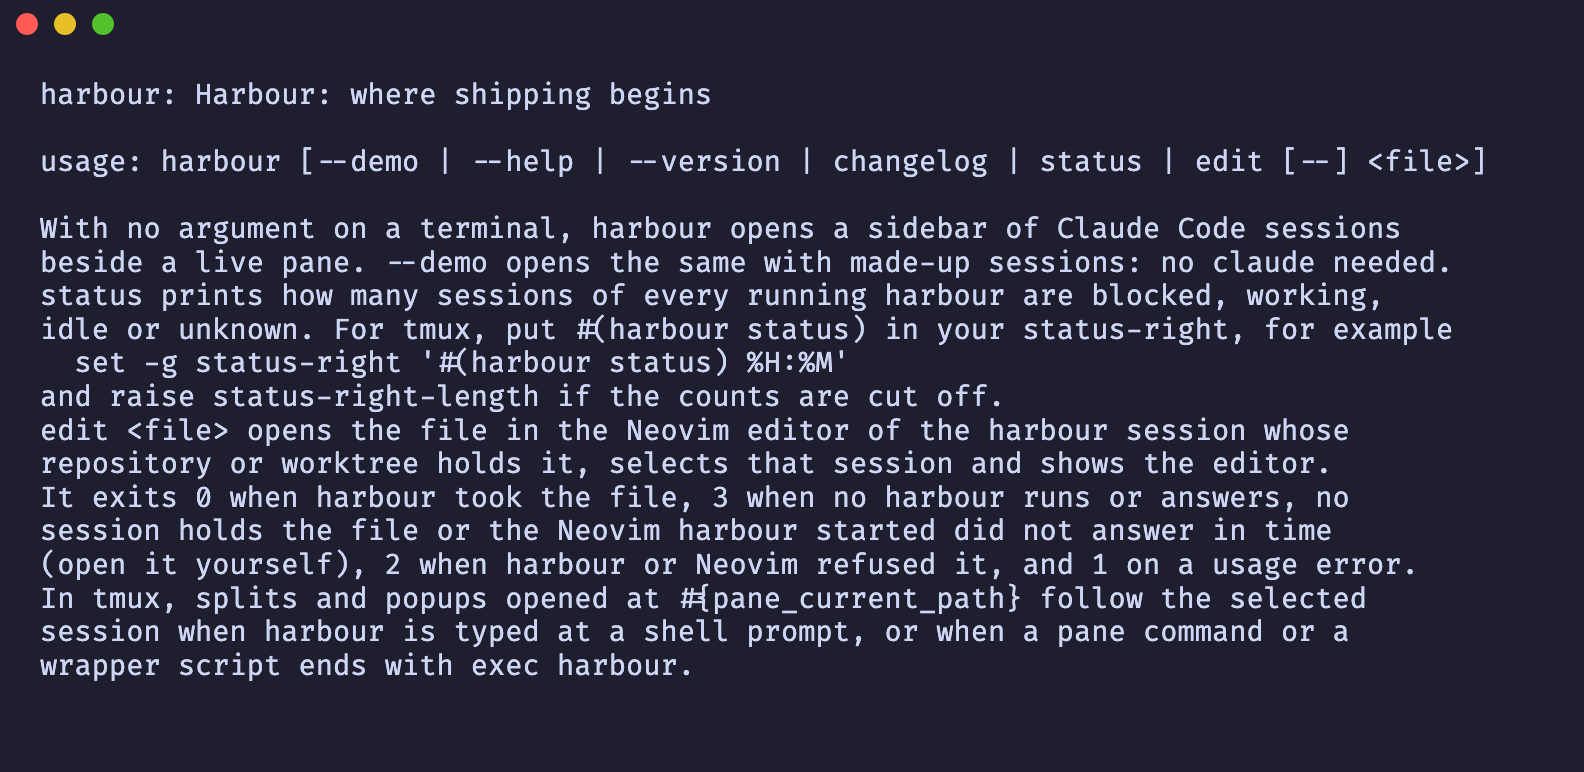
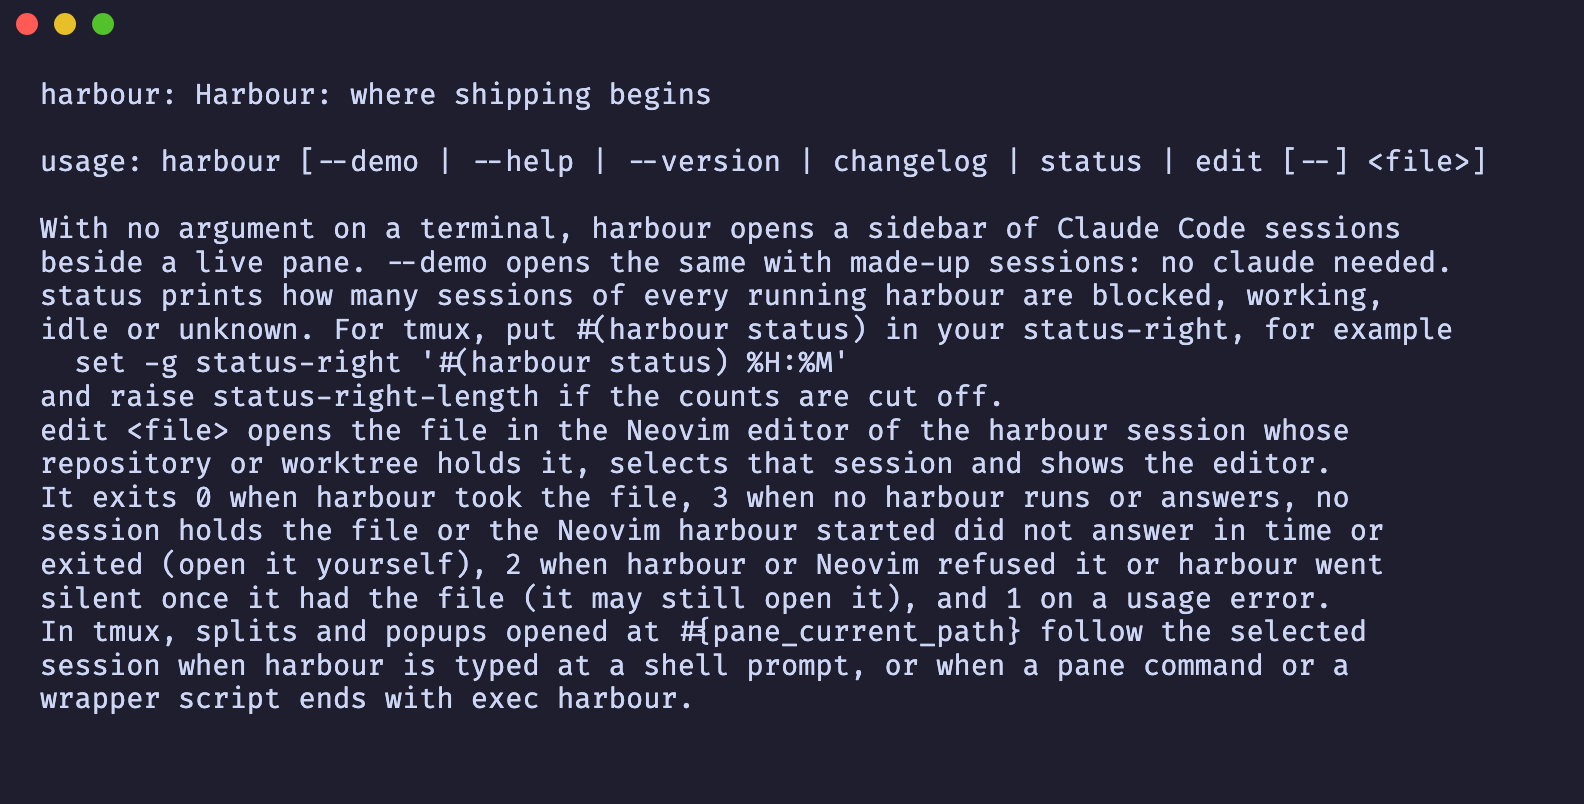
Refuse a prompt raised during an open at once, and leave non-Neovim harbours out of the ask
The mode check while nvim_cmd waits now uses the same rule as before the
open (blocking, or a c, r or no mode), so a swap prompt raised in a running
Neovim is refused within 50 ms instead of being reported silent after a
second. A harbour whose editor is not Neovim answers none to an ask, a
started Neovim that exits ends the wait at once, and resuming a stopped card
counts as its last use. The usage says why a harbour that goes silent once
it had the file exits 2.

diff --git a/tests/app/handing.rs b/tests/app/handing.rs
@@ -11,12 +11,13 @@ use harbour::handoff::{Reply, Verb};
 use rmpv::Value;
 
 use crate::directory::{cwd, following_with, repository, write_transcript};
-use crate::handoff::{editing, file, harbour, soon, start_in};
+use crate::handoff::{editing, file, harbour, harbour_with, soon, start_in};
 use crate::script;
 
 const WAITING: &str = "Neovim is waiting for a key; answer it and try again";
 const BUSY: &str = "harbour was busy and did not get to it in time";
 const CLOSED: &str = "Neovim did not start in time; harbour closed it";
+const EXITED: &str = "Neovim exited before it took the file";
 
 #[test]
 fn an_open_that_starts_neovim_answers_once_it_has_the_file() {
@@ -48,6 +49,22 @@ fn an_open_that_starts_a_neovim_that_never_answers_closes_it_and_leaves_the_file
     assert_eq!(reply, Reply::Untaken(CLOSED.to_string()));
     let shown = screen.draw();
     assert!(!shown.contains("acme nvim ready"), "{shown}");
+}
+
+#[test]
+fn an_open_that_starts_a_neovim_which_exits_at_once_says_so_without_waiting() {
+    let scratch = tempfile::tempdir().unwrap();
+    let editor = Program::neovim("nvim", script("exit 1"));
+    let mut screen = harbour_with(scratch.path(), editor);
+    start_in(&mut screen, scratch.path(), "acme-api", 1);
+    let started = Instant::now();
+
+    let reply = screen
+        .app
+        .hand(Verb::Open, &file(scratch.path(), "acme-api"), soon());
+
+    assert_eq!(reply, Reply::Untaken(EXITED.to_string()));
+    assert!(started.elapsed() < Duration::from_secs(2));
 }
 
 #[test]
@@ -126,6 +143,21 @@ fn an_open_that_starts_a_neovim_which_stops_at_a_prompt_on_loading_the_file_is_r
 
     assert_eq!(reply, Reply::Refused(WAITING.to_string()));
     assert!(started.elapsed() < Duration::from_secs(2));
+}
+
+#[test]
+fn an_open_that_raises_a_prompt_in_a_running_neovim_is_refused_at_once() {
+    let scratch = tempfile::tempdir().unwrap();
+    let (mut screen, socket) = editing(scratch.path());
+    let _asked = neovim_in(&socket, "n", false, Edit::Asking);
+    let started = Instant::now();
+
+    let reply = screen
+        .app
+        .hand(Verb::Open, &file(scratch.path(), "acme-api"), soon());
+
+    assert_eq!(reply, Reply::Refused(WAITING.to_string()));
+    assert!(started.elapsed() < Duration::from_millis(500));
 }
 
 #[test]
@@ -267,15 +299,16 @@ fn neovim_in(
             let request = rmpv::decode::read_value(&mut stream).unwrap();
             let fields = request.as_array().unwrap().clone();
             let method = fields[2].as_str().unwrap().to_string();
+            let (shown, blocked) = match edit {
+                Edit::Asking if !held.is_empty() => ("r?", false),
+                _ => (mode, blocking || !held.is_empty()),
+            };
             let (error, result) = match (method.as_str(), edit) {
                 ("nvim_get_mode", _) => (
                     Value::Nil,
                     Value::Map(vec![
-                        (Value::from("mode"), Value::from(mode)),
-                        (
-                            Value::from("blocking"),
-                            Value::from(blocking || !held.is_empty()),
-                        ),
+                        (Value::from("mode"), Value::from(shown)),
+                        (Value::from("blocking"), Value::from(blocked)),
                     ]),
                 ),
                 (_, Edit::Silent) => {
@@ -283,7 +316,7 @@ fn neovim_in(
                     thread::sleep(Duration::from_secs(5));
                     continue;
                 }
-                (_, Edit::Prompting) => {
+                (_, Edit::Prompting | Edit::Asking) => {
                     let _ = asked.send((method, fields[3].as_array().unwrap().clone()));
                     held.push(stream);
                     continue;
@@ -308,6 +341,7 @@ pub(crate) enum Edit {
     Refused(&'static str),
     Silent,
     Prompting,
+    Asking,
 }
 
 pub(crate) fn called(asked: &Receiver<(String, Vec<Value>)>) -> (String, Vec<Value>) {

diff --git a/src/app/handoff.rs b/src/app/handoff.rs
@@ -10,6 +10,7 @@ const WAITING: &str = "harbour is waiting for an answer; try again after it";
 const BUSY: &str = "harbour was busy and did not get to it in time";
 const SILENT: &str = "Neovim did not answer";
 const CLOSED: &str = "Neovim did not start in time; harbour closed it";
+const EXITED: &str = "Neovim exited before it took the file";
 const OPEN_PATIENCE: Duration = Duration::from_secs(1);
 const REPLYING: Duration = Duration::from_millis(250);
 const SERVED_PER_FRAME: usize = 4;
@@ -21,6 +22,10 @@ impl App {
                 Verb::Ask => Reply::None,
                 Verb::Open => Reply::Refused(WAITING.to_string()),
             };
+        }
+        let neovim = self.editor.as_ref().is_none_or(Program::is_neovim);
+        if verb == Verb::Ask && !neovim {
+            return Reply::None;
         }
         if verb == Verb::Open {
             self.refresh_live();
@@ -171,8 +176,9 @@ impl App {
                     )
                     .map_err(Reply::Refused)?,
                 );
+                let newest = entry.editors.len() - 1;
                 if let Some((file, last)) = file
-                    && let Err(unopened) = entry.editors[entry.editors.len() - 1].open(file, last)
+                    && let Err(unopened) = entry.editors[newest].open(file, last)
                 {
                     if let Unopened::Silent = unopened {
                         entry.editors.pop();
@@ -181,7 +187,7 @@ impl App {
                     return Err(refused(unopened, SILENT));
                 }
                 self.failed = None;
-                entry.editors.len() - 1
+                newest
             }
         };
         entry.editor = Some(shown);
@@ -214,6 +220,7 @@ fn refused(unopened: Unopened, silent: &str) -> Reply {
     match unopened {
         Unopened::Refused(message) => Reply::Refused(message),
         Unopened::Silent => Reply::Refused(silent.to_string()),
+        Unopened::Exited => Reply::Untaken(EXITED.to_string()),
     }
 }
 

diff --git a/tests/app/remembering.rs b/tests/app/remembering.rs
@@ -1,5 +1,7 @@
 use std::fs;
 use std::path::{Path, PathBuf};
+use std::thread::sleep;
+use std::time::{Duration, SystemTime};
 
 use crossterm::event::{KeyCode, KeyModifiers};
 use harbour::app::App;
@@ -7,6 +9,7 @@ use harbour::memory::{Memory, Remembered};
 use ratatui::style::Modifier;
 use tempfile::TempDir;
 
+use crate::handoff::last_use;
 use crate::{Screen, below, script};
 
 pub(crate) const ID: &str = "0f1e2d3c-4b5a-6978-8a9b-0c1d2e3f4a5b";
@@ -116,6 +119,23 @@ fn a_resumed_card_is_no_longer_stopped() {
     let shown = screen.wait_for("acme agent --resume");
     assert!(shown.contains("acme agent --resume"), "{shown}");
     assert!(!shown.contains("stopped"), "{shown}");
+}
+
+#[test]
+fn resuming_a_stopped_card_counts_as_its_last_use() {
+    let scratch = Scratch::new();
+    scratch.remember(ID, TITLE, 0);
+    let mut screen = scratch.screen(resuming_agent());
+    let drawn = screen.draw();
+    assert!(drawn.contains(TITLE), "{drawn}");
+    sleep(Duration::from_millis(5));
+    let resumed_at = SystemTime::now();
+
+    screen.key(KeyCode::Enter, KeyModifiers::NONE);
+
+    let shown = screen.wait_for("acme agent --resume");
+    assert!(shown.contains("acme agent --resume"), "{shown}");
+    assert!(last_use(&mut screen, scratch.dir.path()) >= resumed_at);
 }
 
 #[test]

diff --git a/src/editor.rs b/src/editor.rs
@@ -79,6 +79,7 @@ impl Program {
 pub enum Unopened {
     Refused(String),
     Silent,
+    Exited,
 }
 
 pub struct Editor {
@@ -141,16 +142,17 @@ impl Editor {
         }
     }
 
-    pub fn open(&self, file: &Path, deadline: Instant) -> Result<(), Unopened> {
+    pub fn open(&mut self, file: &Path, deadline: Instant) -> Result<(), Unopened> {
         let (socket, _) = self.socket.as_ref().ok_or(Unopened::Silent)?;
         let mode = loop {
             match nvim::mode(socket, deadline) {
                 Some(mode) => break mode,
+                None if self.session.exit().is_some() => return Err(Unopened::Exited),
                 None if Instant::now() + RETRY_OPEN < deadline => thread::sleep(RETRY_OPEN),
                 None => return Err(Unopened::Silent),
             }
         };
-        if waiting(&mode) {
+        if mode.waiting() {
             return Err(Unopened::Refused(WAITING.to_string()));
         }
         match nvim::edit(socket, file, deadline) {
@@ -225,8 +227,4 @@ fn label(directory: &Path) -> String {
         Some(below) => format!("~/{}", below.display()),
         None => directory.display().to_string(),
     }
-}
-
-fn waiting(mode: &nvim::Mode) -> bool {
-    mode.blocking || mode.mode.starts_with(['c', 'r']) || mode.mode.starts_with("no")
 }

diff --git a/src/main.rs b/src/main.rs
@@ -17,8 +17,9 @@ and raise status-right-length if the counts are cut off.
 edit <file> opens the file in the Neovim editor of the harbour session whose
 repository or worktree holds it, selects that session and shows the editor.
 It exits 0 when harbour took the file, 3 when no harbour runs or answers, no
-session holds the file or the Neovim harbour started did not answer in time
-(open it yourself), 2 when harbour or Neovim refused it, and 1 on a usage error.
+session holds the file or the Neovim harbour started did not answer in time or
+exited (open it yourself), 2 when harbour or Neovim refused it or harbour went
+silent once it had the file (it may still open it), and 1 on a usage error.
 In tmux, splits and popups opened at #{pane_current_path} follow the selected
 session when harbour is typed at a shell prompt, or when a pane command or a
 wrapper script ends with exec harbour.";

diff --git a/tests/cli.rs b/tests/cli.rs
@@ -265,8 +265,9 @@ and raise status-right-length if the counts are cut off.
 edit <file> opens the file in the Neovim editor of the harbour session whose
 repository or worktree holds it, selects that session and shows the editor.
 It exits 0 when harbour took the file, 3 when no harbour runs or answers, no
-session holds the file or the Neovim harbour started did not answer in time
-(open it yourself), 2 when harbour or Neovim refused it, and 1 on a usage error.
+session holds the file or the Neovim harbour started did not answer in time or
+exited (open it yourself), 2 when harbour or Neovim refused it or harbour went
+silent once it had the file (it may still open it), and 1 on a usage error.
 In tmux, splits and popups opened at #{pane_current_path} follow the selected
 session when harbour is typed at a shell prompt, or when a pane command or a
 wrapper script ends with exec harbour.

diff --git a/src/nvim.rs b/src/nvim.rs
@@ -22,6 +22,12 @@ pub struct Mode {
     pub blocking: bool,
 }
 
+impl Mode {
+    pub fn waiting(&self) -> bool {
+        self.blocking || self.mode.starts_with(['c', 'r']) || self.mode.starts_with("no")
+    }
+}
+
 pub enum Edited {
     Done,
     Refused(String),
@@ -78,7 +84,7 @@ pub fn edit(socket: &Path, file: &Path, deadline: Instant) -> Option<Edited> {
             Reading::Pending if Instant::now() >= deadline => return None,
             Reading::Pending => {
                 let probe = deadline.min(Instant::now() + WATCH);
-                if mode(socket, probe).is_some_and(|mode| mode.blocking) {
+                if mode(socket, probe).is_some_and(|mode| mode.waiting()) {
                     return Some(Edited::Waiting);
                 }
             }

diff --git a/tests/app/handoff.rs b/tests/app/handoff.rs
@@ -288,6 +288,20 @@ fn open_with_an_editor_other_than_neovim_is_refused() {
 }
 
 #[test]
+fn ask_with_an_editor_other_than_neovim_holds_nothing() {
+    let scratch = tempfile::tempdir().unwrap();
+    let editor = Program::new("acme-edit", script("exec sleep 600"));
+    let mut screen = harbour_with(scratch.path(), editor);
+    start_in(&mut screen, scratch.path(), "acme-api", 1);
+
+    let reply = screen
+        .app
+        .hand(Verb::Ask, &file(scratch.path(), "acme-api"), soon());
+
+    assert_eq!(reply, Reply::None);
+}
+
+#[test]
 fn open_for_a_file_no_session_holds_is_refused() {
     let scratch = tempfile::tempdir().unwrap();
     let mut screen = harbour(scratch.path());

diff --git a/tests/e2e/neovim.rs b/tests/e2e/neovim.rs
@@ -294,6 +294,7 @@ fn harbour_edit_while_neovim_shows_a_swap_prompt_is_refused_and_leaves_it_up() {
     let state = neovim.home.path().join("xdg/state");
     left_unsaved(&neovim, &first);
     let stalled = handed(neovim.home.path(), Some(state.to_str().unwrap()), &first);
+    assert_eq!(String::from_utf8_lossy(&stalled.stderr), WAITING);
     assert_eq!(stalled.status.code(), Some(2));
     neovim.shows("Found a swap file");
 

diff --git a/src/app/remember.rs b/src/app/remember.rs
@@ -163,6 +163,7 @@ impl App {
                 entry.id = self.started;
                 entry.session = Some(session);
                 entry.started_at = started_at;
+                entry.used_at = started_at;
                 entry.record = None;
                 entry.exited_at = None;
                 entry.transcript = transcript;

diff --git a/tests/e2e/edit.rs b/tests/e2e/edit.rs
@@ -46,6 +46,7 @@ fn the_demo_never_answers_harbour_edit() {
         String::from_utf8_lossy(&output.stderr),
         "harbour: no harbour is running\n"
     );
+    assert_eq!(output.status.code(), Some(3));
 }
 
 pub fn source_file(home: &Path, name: &str) -> PathBuf {

diff --git a/plans/phase-12-edit-from-outside.md b/plans/phase-12-edit-from-outside.md
@@ -111,7 +111,8 @@ writes it, shuts its side, reads one reply line and closes.
 
 `harbour edit` exits 0 with no output only on success; every other row prints
 `harbour: <message>` on stderr and exits 3 when nobody took the file (a script opens it itself),
-2 when harbour or Neovim refused it, and 1 on a usage error.
+2 when harbour or Neovim refused it or a harbour went silent once it had the open (it may still
+open the file, so a script opening it too could open it twice), and 1 on a usage error.
 
 | State | In harbour | `harbour edit` prints | Exit |
 | --- | --- | --- | --- |
@@ -127,10 +128,13 @@ writes it, shuts its side, reads one reply line and closes.
 | Only a stopped card (a remembered session not resumed) holds it | unchanged, nothing resumed | `no harbour session holds <path>` | 3 |
 | A stopped card is selected and a running session also holds it | the running session gets it | nothing | 0 |
 | No harbour running (no folder, an empty one, only dead sockets) | (none) | `no harbour is running` | 3 |
-| `HARBOUR_EDITOR` is not Neovim | unchanged | `a file can only be handed to Neovim, and HARBOUR_EDITOR is <name>` | 2 |
+| `HARBOUR_EDITOR` is not Neovim | unchanged; it answers the `ask` with `none`, so another harbour with Neovim gets the file | `no harbour session holds <path>` when no other harbour holds it | 3 |
+| An `open` reaches a harbour whose `HARBOUR_EDITOR` is not Neovim | unchanged | `a file can only be handed to Neovim, and HARBOUR_EDITOR is <name>` | 2 |
 | Neovim is waiting for a key (`blocking`) | unchanged | `Neovim is waiting for a key; answer it and try again` | 2 |
 | Neovim does not answer (no socket, or no reply in 1 s) | unchanged | `Neovim did not answer` | 2 |
-| Neovim that harbour starts for the open stops at a prompt (a swap file left by a crashed Neovim), also when it first answered in normal mode before loading the file and `nvim_cmd` then waits behind the prompt (while `nvim_cmd` waits, harbour asks its mode every 50 ms and refuses as soon as it blocks) | unchanged; the started Neovim stays behind C-l | `Neovim is waiting for a key; answer it and try again` | 2 |
+| Neovim that harbour starts for the open stops at a prompt (a swap file left by a crashed Neovim), also when it first answered in normal mode before loading the file and `nvim_cmd` then waits behind the prompt (while `nvim_cmd` waits, harbour asks its mode every 50 ms and refuses as soon as it waits for a key, by the same rule as before the open) | unchanged; the started Neovim stays behind C-l | `Neovim is waiting for a key; answer it and try again` | 2 |
+| Neovim that harbour starts for the open exits before it takes the file | unchanged; harbour stops waiting at once | `Neovim exited before it took the file` | 3 |
+| A running Neovim raises a prompt on `nvim_cmd edit` (a stale swap file, mode `r?`, not `blocking`) | unchanged; the prompt stays up | `Neovim is waiting for a key; answer it and try again`, within 50 ms of the prompt | 2 |
 | Neovim that harbour starts for the open does not answer before the deadline | unchanged; harbour closes the Neovim it started, and C-l starts a new one | `Neovim did not start in time; harbour closed it` | 3 |
 | A running Neovim does not answer before the deadline, which ran out before its 1 s | unchanged | `harbour was busy and did not get to it in time` | 2 |
 | Neovim is on its command line (`c` modes), at a hit-enter or `-- More --` prompt (`r` modes) or waits for an operator's motion (`no` modes) | unchanged, nothing sent to it | `Neovim is waiting for a key; answer it and try again` | 2 |
@@ -144,6 +148,7 @@ writes it, shuts its side, reads one reply line and closes.
 | The request reaches the open past its deadline, or too close to it to reply in time | unchanged, no editor started | `harbour was busy and did not get to it in time` | 2 |
 | The help view is open | it closes, then as the first row | nothing | 0 |
 | Harbour busy past the deadline | the expired request is dropped, nothing opens | `no answer from harbour` | 2 |
+| A harbour answers the `ask`, then goes silent or quits before answering the `open` | the open may have been dispatched and may still open the file | `no answer from harbour` (2, not 3: a script that opened the file itself could open it twice) | 2 |
 | Harbours connected but none answered the `ask` in time | unchanged | `no harbour answered` | 3 |
 | A path climbing out of the root (`..`), a symlink in the root to a file outside it (dangling or not), a folder whose name only starts like the root | unchanged | `no harbour session holds <path>` | 3 |
 | A message holding control characters | (none) | the characters escaped (`\n`, `\u{1b}`) | as for that message |
@@ -232,6 +237,11 @@ Product decisions the issue did not settle, each taken the most conservative way
   (`untaken`, exit 3), `r` modes are refused, a request too close to its deadline gets "busy",
   and the listener sleeps in `poll` instead of waking every 5 ms. The help screenshot is sized
   to the text of `--help`.
+- Review round 4: the 50 ms check while `nvim_cmd` waits uses the one rule for "Neovim is
+  waiting" (`blocking`, or a `c`, `r` or `no` mode), so a swap prompt raised in a running Neovim
+  is refused at once; a harbour whose editor is not Neovim answers `none` to an ask; a started
+  Neovim that exits ends the wait at once; resuming a stopped card counts as its last use; the
+  usage says why a harbour silent after the `ask` exits 2.
 
 ## Hurdles
 
@@ -248,4 +258,5 @@ Product decisions the issue did not settle, each taken the most conservative way
 - `test-seam` The stale swap e2e test waited for the swap file, which Neovim writes on load before the change, so under a ship's load it killed Neovim before `preserve` and the unmodified swap was deleted; it waits for a file Neovim writes after `preserve` → code
 - `review-loop` Review round 3 found 3 should findings (the selected session at home took files from a repository session, a hit-enter prompt was not refused, and a Neovim harbour had just started got only 1 s) and 4 minor ones (`edit --help`, the listener polling every 5 ms, a busy harbour reported as a silent Neovim, the plan's promises); the holder is now the deepest root, `r` modes are refused, and a started Neovim gets the whole deadline or is closed → code
 - `test-seam` Running the real-Neovim tests 15 times under load showed two failures: `settled` took the screen as cleared while `:echo ''` was still typed on the command line, so `harbour edit` met mode `c` (it now waits until the command line is gone), and a Neovim harbour had just started answered `n` before loading its file, then raised the swap prompt with `nvim_cmd` waiting behind it, so the open was reported closed instead of waiting; a first fix asked the mode again 100 ms before the deadline, which CI's load ate, so harbour now asks its mode every 50 ms while `nvim_cmd` waits → code
+- `review-loop` Review round 4 found 1 should finding (the 50 ms check looked only at `blocking`, so a swap prompt `nvim_cmd` raised in a running Neovim, mode `r?`, ran the whole second and was reported silent; the e2e test asserted the status alone) and 4 minor ones (a non-Neovim harbour won the ask then refused, a started Neovim that exited cost the whole deadline, the usage hid why a silent harbour exits 2, a resume was not a use); the check shares `Mode::waiting`, and the e2e edit tests assert the message too → code
 - `test-seam` The real-Neovim prompt test ran at tmux's 24 rows, where the swap message filled the screen and Neovim showed `-- More --` (mode `rm`), so the `r` modes were never reached; the test now runs at 50 rows. The idle-listener test first read the wrong thread, since reader threads share the 15-character name; it runs in a binary of its own and retries until the thread is named → code
